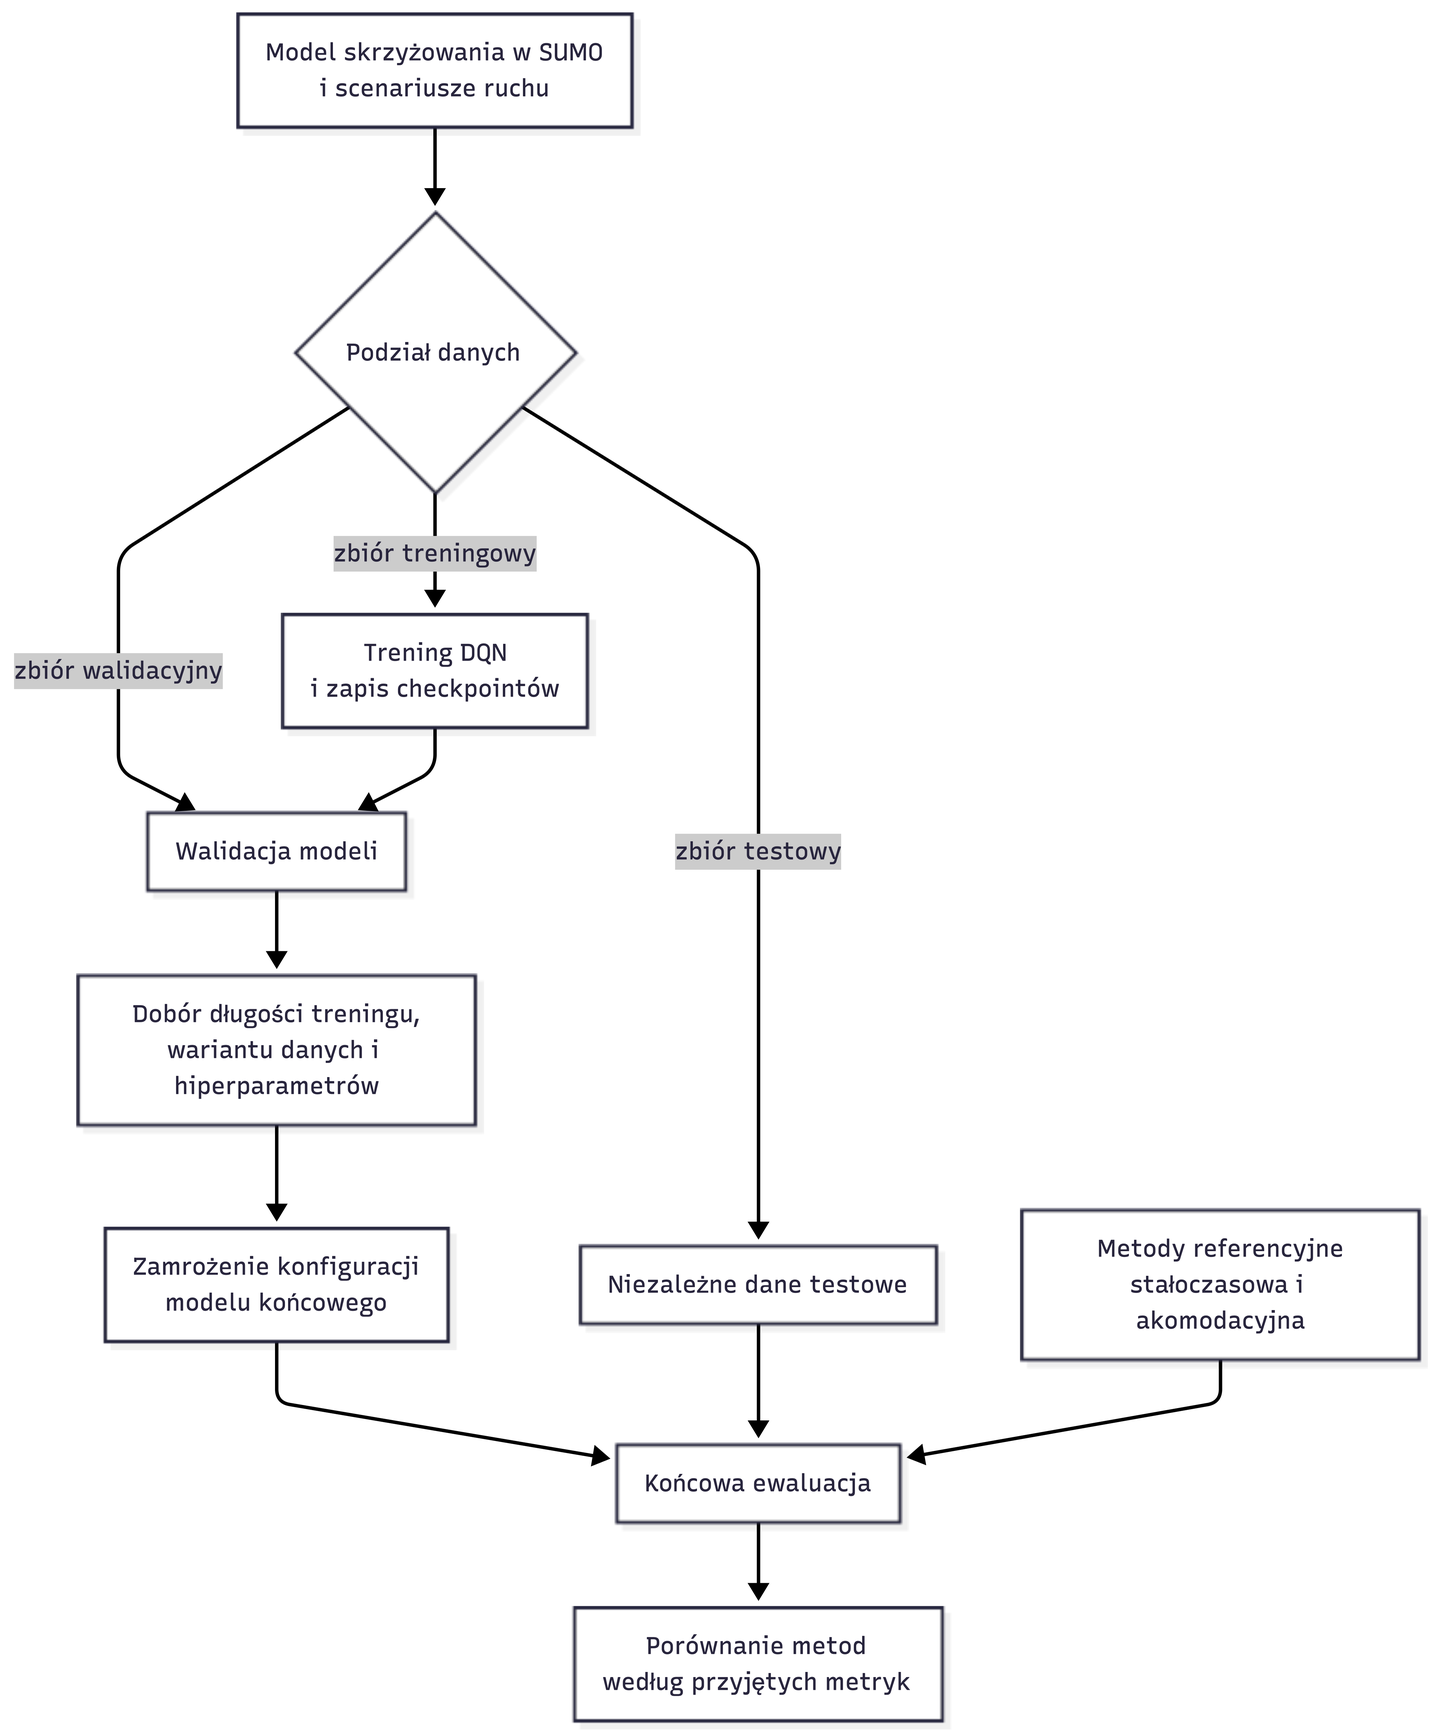
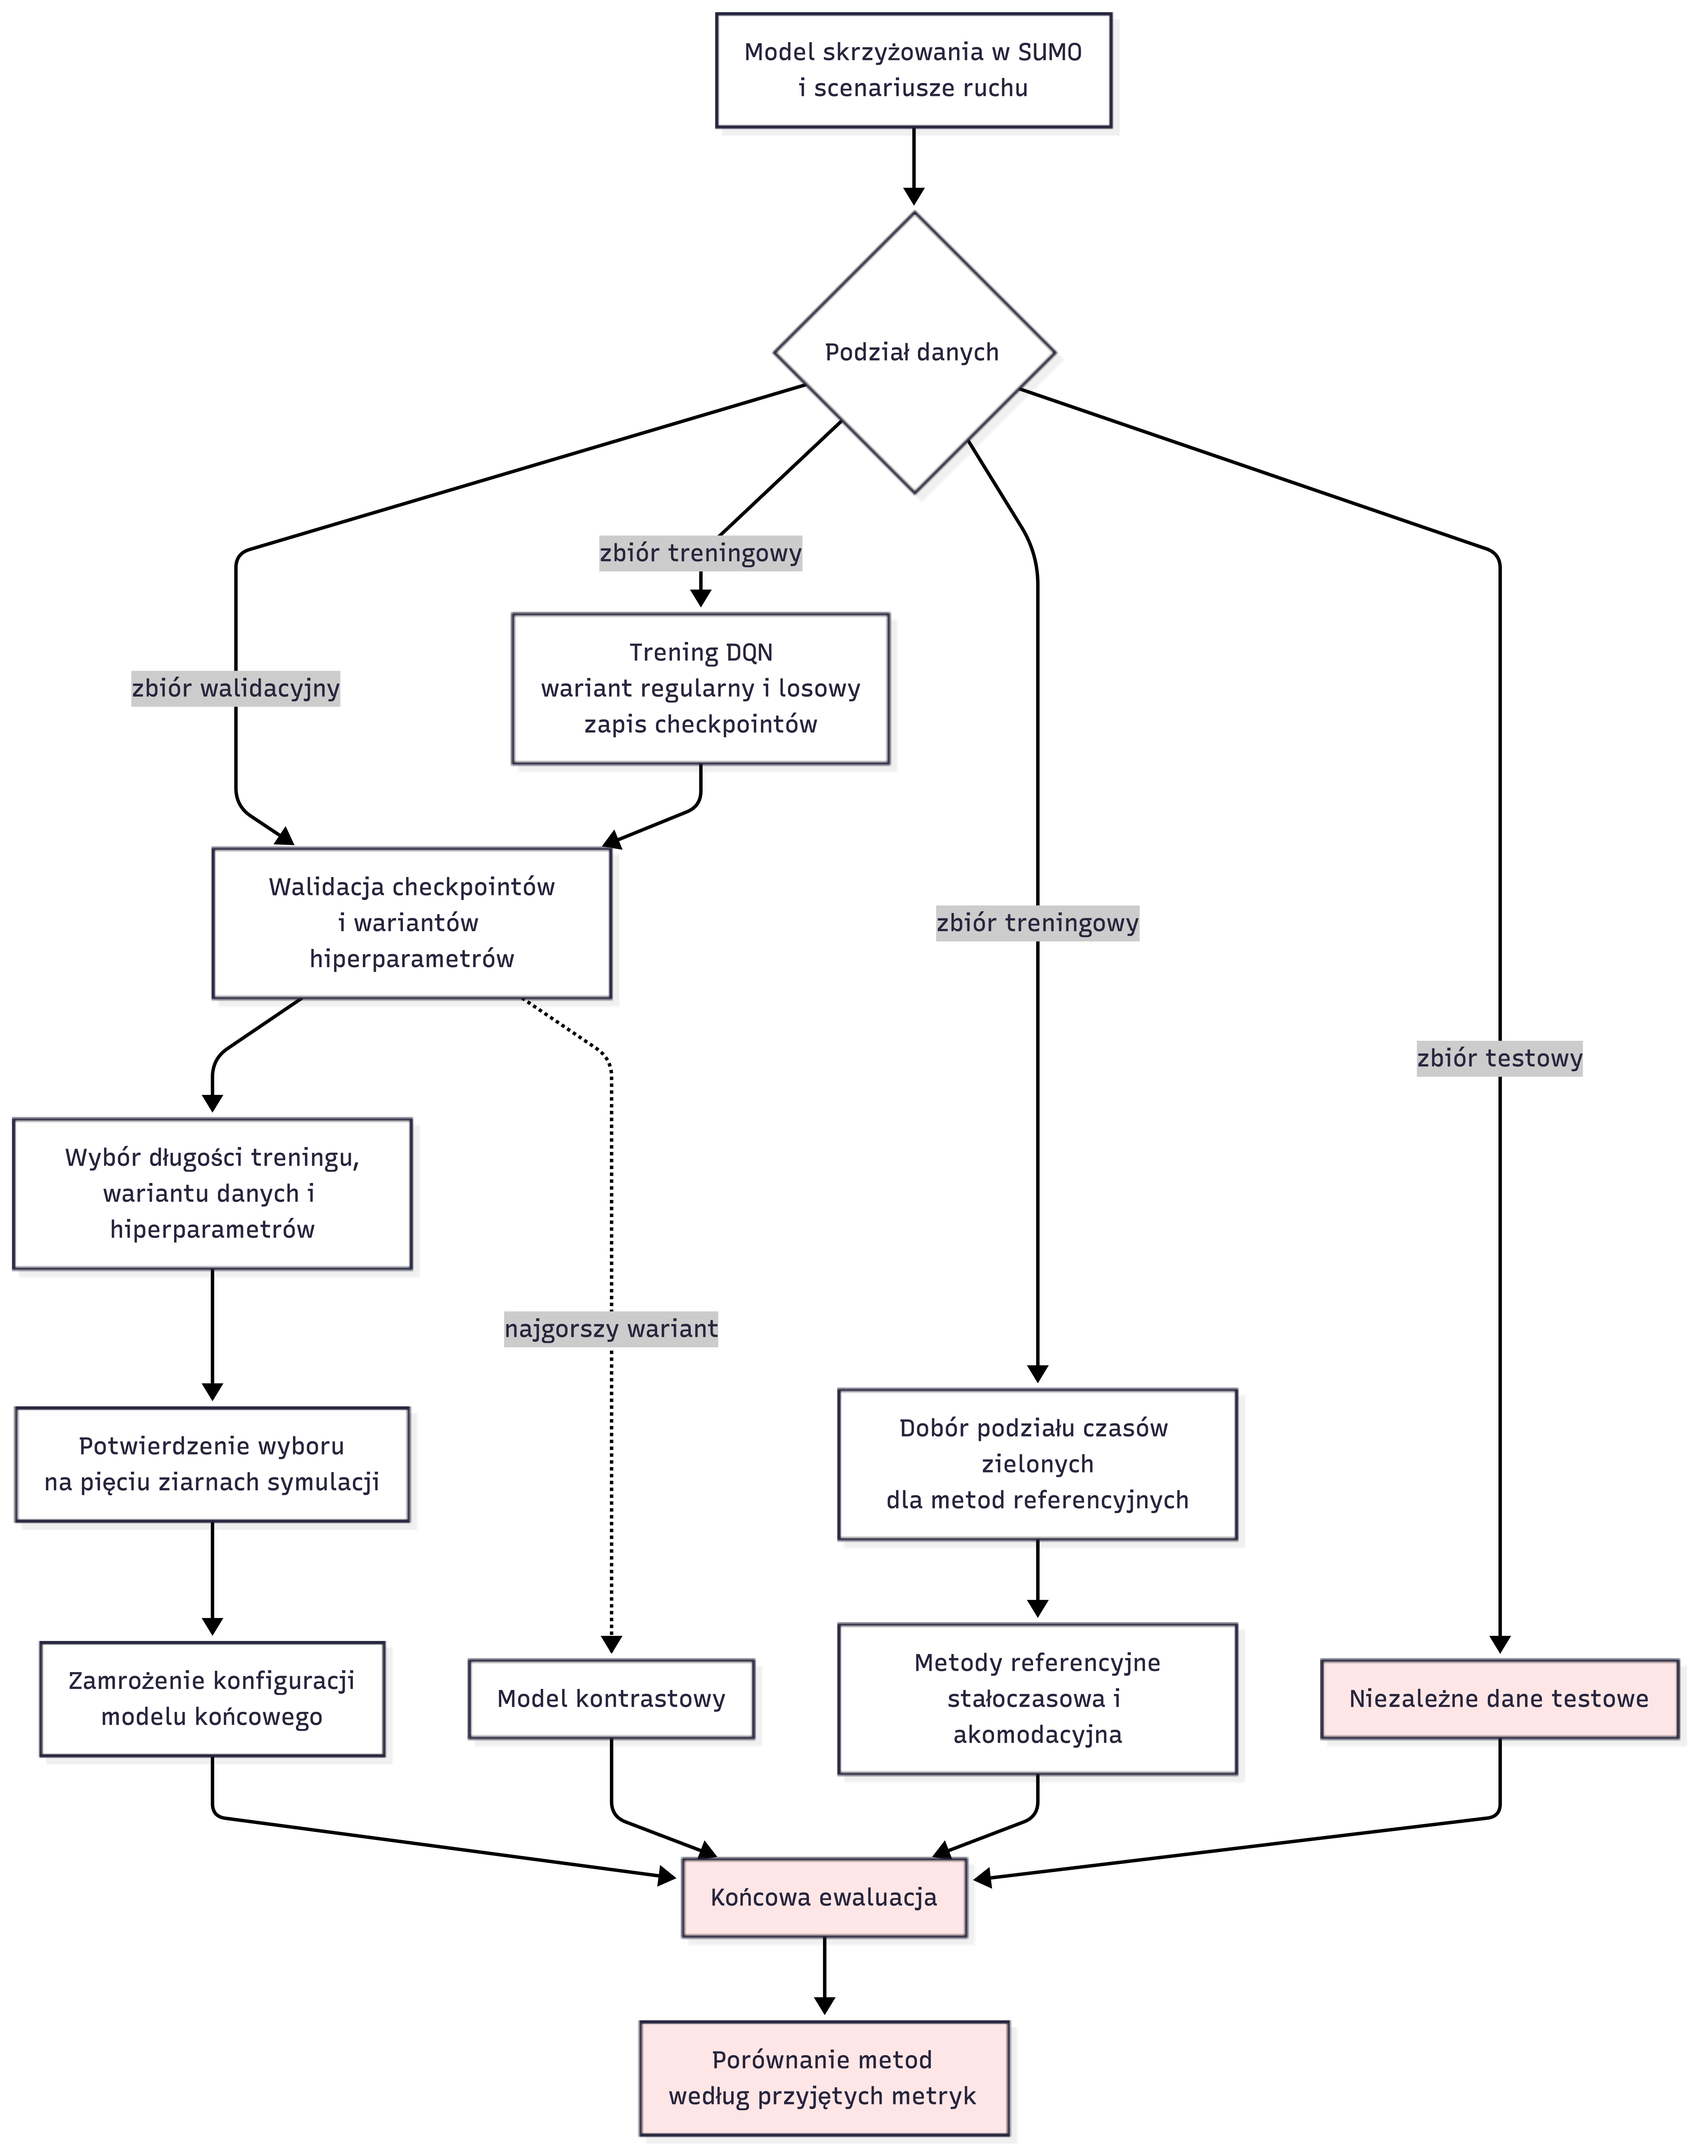
poprawka rozdzialu

diff --git a/docs/tex/2-przeglad-rozwiazan.tex b/docs/tex/2-przeglad-rozwiazan.tex
@@ -129,6 +129,6 @@ Przedstawiony przegląd pozwala uporządkować metody sterowania sygnalizacją o
 
 W obrębie metod uczenia ze wzmocnieniem tablicowy Q-Learning jest trudny do zastosowania przy wielowymiarowej, ciągłej obserwacji, ponieważ wymagałby dyskretyzacji prowadzącej do ogromnej liczby stanów \cite{sutton2018reinforcement}. DQN usuwa to ograniczenie, aproksymując funkcję wartości akcji za pomocą sieci neuronowej, przy zachowaniu prostej obsługi dyskretnej przestrzeni akcji \cite{mnih2013playing}.
 
-Wybór algorytmu DQN jest w rozpatrywanym przypadku uzasadniony charakterem problemu. Sterowanie dotyczy pojedynczego skrzyżowania, przestrzeń akcji jest dyskretna i odpowiada wyborowi jednej z czterech faz (\texttt{Discrete(4)}), natomiast obserwacja ma postać ciągłego, 31-wymiarowego wektora (\texttt{Box(0, 1, (31,), float32)}). Tablicowy Q-Learning wymagałby sztucznej dyskretyzacji tej obserwacji, co prowadziłoby do niepraktycznie dużej liczby kombinacji stanów, podczas gdy DQN pozwala bezpośrednio aproksymować wartości czterech działań na podstawie wektora obserwacji.
+Wybór algorytmu DQN jest w rozpatrywanym przypadku uzasadniony charakterem problemu. Sterowanie dotyczy pojedynczego skrzyżowania, przestrzeń akcji jest dyskretna i odpowiada wyborowi jednej z trzech faz (\texttt{Discrete(3)}), natomiast obserwacja ma postać ciągłego, 30-wymiarowego wektora (\texttt{Box(0, 1, (30,), float32)}). Tablicowy Q-Learning wymagałby sztucznej dyskretyzacji tej obserwacji, co prowadziłoby do niepraktycznie dużej liczby kombinacji stanów, podczas gdy DQN pozwala bezpośrednio aproksymować wartości trzech działań na podstawie wektora obserwacji.
 
 W odróżnieniu od części omawianych prac, koncentrujących się na koordynacji wielu skrzyżowań lub na rozwiązaniach wieloagentowych, niniejsza praca dotyczy pojedynczego skrzyżowania i skupia się na porównaniu agenta DQN z klasycznymi metodami referencyjnymi, to jest sterowaniem stałoczasowym oraz akomodacyjnym, w kontrolowanych warunkach symulacyjnych. Celem nie jest zaproponowanie nowego algorytmu uczenia ze wzmocnieniem, lecz ocena skuteczności i stabilności typowego agenta DQN w tym zadaniu oraz rzetelne porównanie go z metodami klasycznymi. Szczegółowy opis środowiska, przestrzeni obserwacji i akcji, funkcji nagrody oraz konfiguracji eksperymentu przedstawiono w dalszej części pracy.

diff --git a/docs/tex/1-wstep.tex b/docs/tex/1-wstep.tex
@@ -58,6 +58,6 @@ Realizacja celu głównego wymagała osiągnięcia następujących celów szczeg
 \subsection{Założenia i ograniczenia pracy}
 \label{subsec:zalozenia-ograniczenia}
 
-Zakres pracy został świadomie ograniczony, aby umożliwić przeprowadzenie kontrolowanego eksperymentu. Analizie poddano pojedyncze skrzyżowanie, bez uwzględnienia wzajemnego oddziaływania sąsiednich skrzyżowań. W modelu ruchu pominięto uczestników innych niż pojazdy silnikowe, to znaczy nie uwzględniono ruchu pieszego, rowerowego ani komunikacji miejskiej. Ruch drogowy generowany jest syntetycznie, z wykorzystaniem skryptu \texttt{randomTrips.py} \cite{sumo_randomtrips_docs}, i nie odwzorowuje bezpośrednio rzeczywistych pomiarów natężenia. Sterowanie ograniczono do wyboru faz sygnalizacji świetlnej: agent dysponuje czterema akcjami i obserwuje ciągły, 31-wymiarowy stan skrzyżowania. Wszystkie eksperymenty przeprowadzono wyłącznie w środowisku symulacyjnym, bez wdrożenia na rzeczywistym sterowniku sygnalizacji.
+Zakres pracy został świadomie ograniczony, aby umożliwić przeprowadzenie kontrolowanego eksperymentu. Analizie poddano pojedyncze skrzyżowanie, bez uwzględnienia wzajemnego oddziaływania sąsiednich skrzyżowań. W modelu ruchu pominięto uczestników innych niż pojazdy silnikowe, to znaczy nie uwzględniono ruchu pieszego, rowerowego ani komunikacji miejskiej. Ruch drogowy generowany jest syntetycznie, z wykorzystaniem skryptu \texttt{randomTrips.py} \cite{sumo_randomtrips_docs}, i nie odwzorowuje bezpośrednio rzeczywistych pomiarów natężenia. Sterowanie ograniczono do wyboru faz sygnalizacji świetlnej: agent dysponuje trzema akcjami i obserwuje ciągły, 30-wymiarowy stan skrzyżowania. Wszystkie eksperymenty przeprowadzono wyłącznie w środowisku symulacyjnym, bez wdrożenia na rzeczywistym sterowniku sygnalizacji.
 
 Należy podkreślić, że celem pracy nie było stworzenie gotowego systemu produkcyjnego ani certyfikowanego sterownika ruchu. Zamierzeniem było przeprowadzenie kontrolowanego eksperymentu, pozwalającego ocenić potencjał algorytmu DQN w adaptacyjnym sterowaniu sygnalizacją świetlną w porównaniu z klasycznymi, deterministycznymi metodami sterowania.
